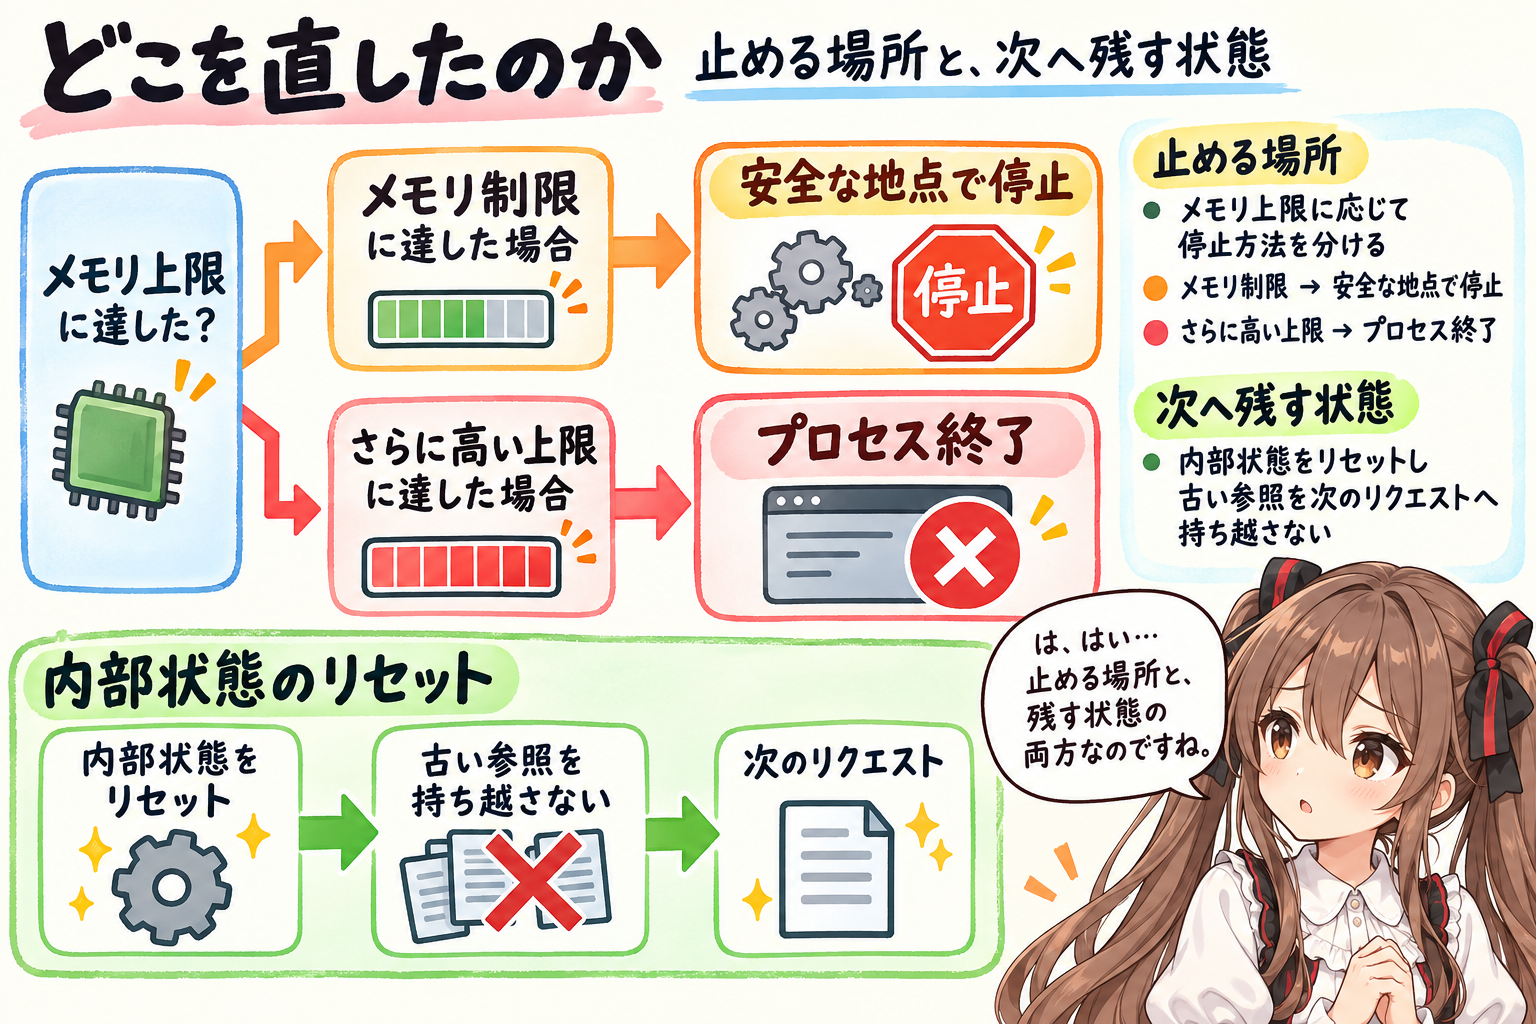
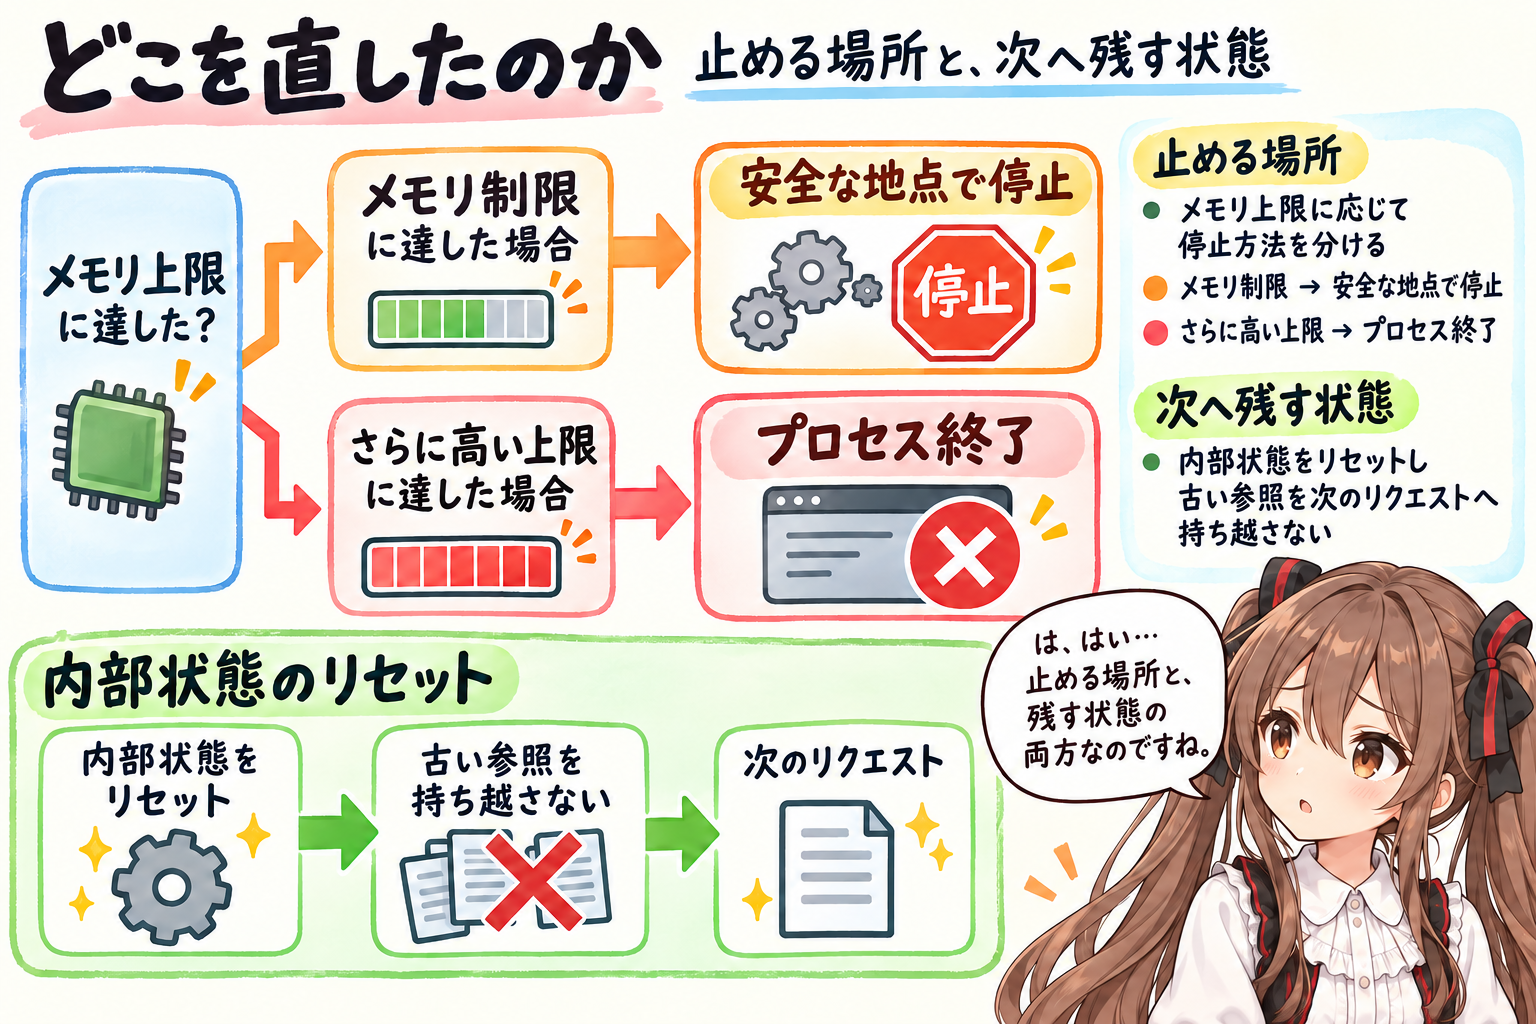
グラレコ005の手指を画面外に修正
## Overview

グラレコ005のみくくから、手を組んだ姿と見えていた指を取り除きました。制作メモも、手指・手首・前腕を画面外に置く指定へ合わせました。

## Changes

- 005画像のみくくの腕を下げ、手と指が画面内に出ない姿へ修正。
- 画像内の見出し、ラベル、吹き出し、図解、配置を保つ修正指示を制作プロンプトへ追記。
- セクションの構図案とスタイル指定を、手指は原則描かず画面外に置く内容へ更新。

diff --git a/2026/10/20261025b/images/src/sections/005/section-text.md b/2026/10/20261025b/images/src/sections/005/section-text.md
@@ -42,7 +42,7 @@
 - 中央: 最大の主図は条件ごとの2本の矢印。上はオレンジの枠「安全な地点で停止」、下は淡い赤の枠「プロセス終了」。2枠同士を順番の矢印で結ばない。
 - 右: 右下のみくくが2つの停止条件と下端のリセット欄を見る。上部に短い要点「止める場所」と「次へ残す状態」。
 - 最も大きく見せる主図: 上限に応じた2つの停止条件の分岐と、下端の独立した緑の帯「内部状態のリセット」→「古い参照を持ち越さない」→「次のリクエスト」。最後の流れに古い参照が通過しないことを明確にする。
-- みくくの表情・視線: 右下に約20%の大きさで1人、慎重に説明するやさしい表情。同じ長い茶色のツインテール、黒と深紅のリボン、茶色の瞳、白い襟付きブラウス。物を持たず、手は下端に自然に置く。
+- みくくの表情・視線: 右下に約20%の大きさで1人、慎重に説明するやさしい表情。同じ長い茶色のツインテール、黒と深紅のリボン、茶色の瞳、白い襟付きブラウス。手・指・手首・前腕は一切表示せず、両腕は下げて画面外に置く。物を持たない。
 - 吹き出し: は、はい…止める場所と、残す状態の両方なのですね。
 
 ## 正確性メモ
@@ -59,7 +59,7 @@
 - 横長3:2、左・中央・右、主図を最大化。均一に明るい白〜薄いアイボリー。
 - fully opaque background; no transparent or semi-transparent pixels
 - 濃色で明瞭な文字、やわらかい手描き線、淡いオレンジ・緑・赤の枠。暗い陰影なし。
-- 同じみくくを1人、短い吹き出し1つ、物を持たない。
+- 同じみくくを1人、短い吹き出し1つ、物を持たない。手指は原則描かず、画面外に置く。
 
 ## 変更（deviation）
 

diff --git a/2026/10/20261025b/images/src/sections/005/image-prompt.md b/2026/10/20261025b/images/src/sections/005/image-prompt.md
@@ -154,3 +154,13 @@ Save the generated image as:
 ```text
 sections/005/graphic-recording.png
 ```
+
+## Final pose correction (supersedes earlier hand-position wording)
+
+Edit the supplied existing Japanese infographic. Preserve its full 3:2 canvas, exact title, every Japanese label and speech bubble, all process diagrams, arrows, color scheme, and the existing position and size of Mikuku at the lower right. This is a localized correction to her pose only.
+
+Remove the clasped hands and every visible finger at the lower right. Mikuku's arms are lowered and remain entirely below the bottom edge of the poster. Continue her white blouse and brown hair naturally through the region previously occupied by the hands. Keep her face, expression, gaze, collar, hair shape, long chestnut twin-tails, black/deep-red hair ribbons, and overall identity unchanged.
+
+Absolutely no hands, fingers, palms, wrists, or forearms may be visible anywhere in the image. Both hands and arms are outside the frame. Do not replace the clasped hands with a different hand gesture. Do not introduce an object, a covering prop, a blur, an extra box, or a cutout to hide them. Keep the poster layout and diagram area intact; do not crop the whole image or shrink Mikuku.
+
+All Japanese text must remain verbatim and legible, especially the two memory-limit branches, the separate internal-state-reset flow, and 「は、はい…止める場所と、残す状態の両方なのですね。」. Keep exactly one Mikuku, no held objects, and the uniformly bright white/very pale ivory background. fully opaque background; no transparent or semi-transparent pixels.
